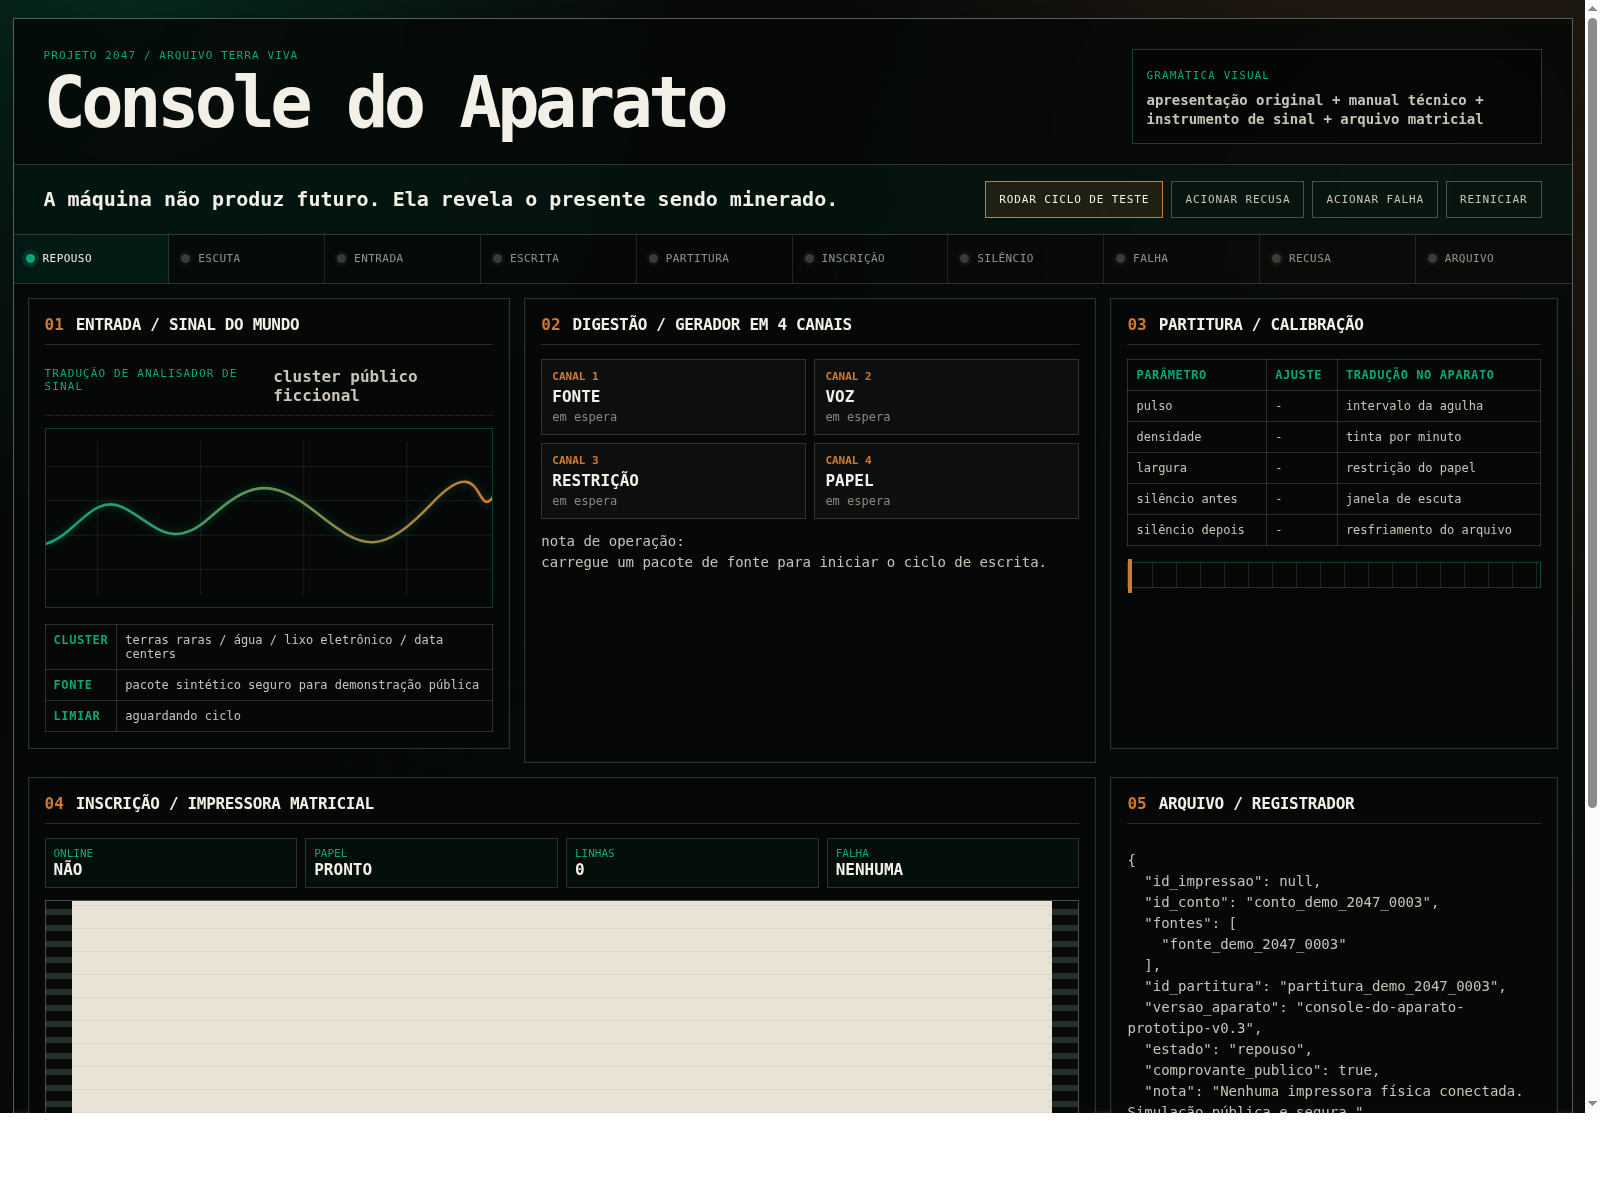
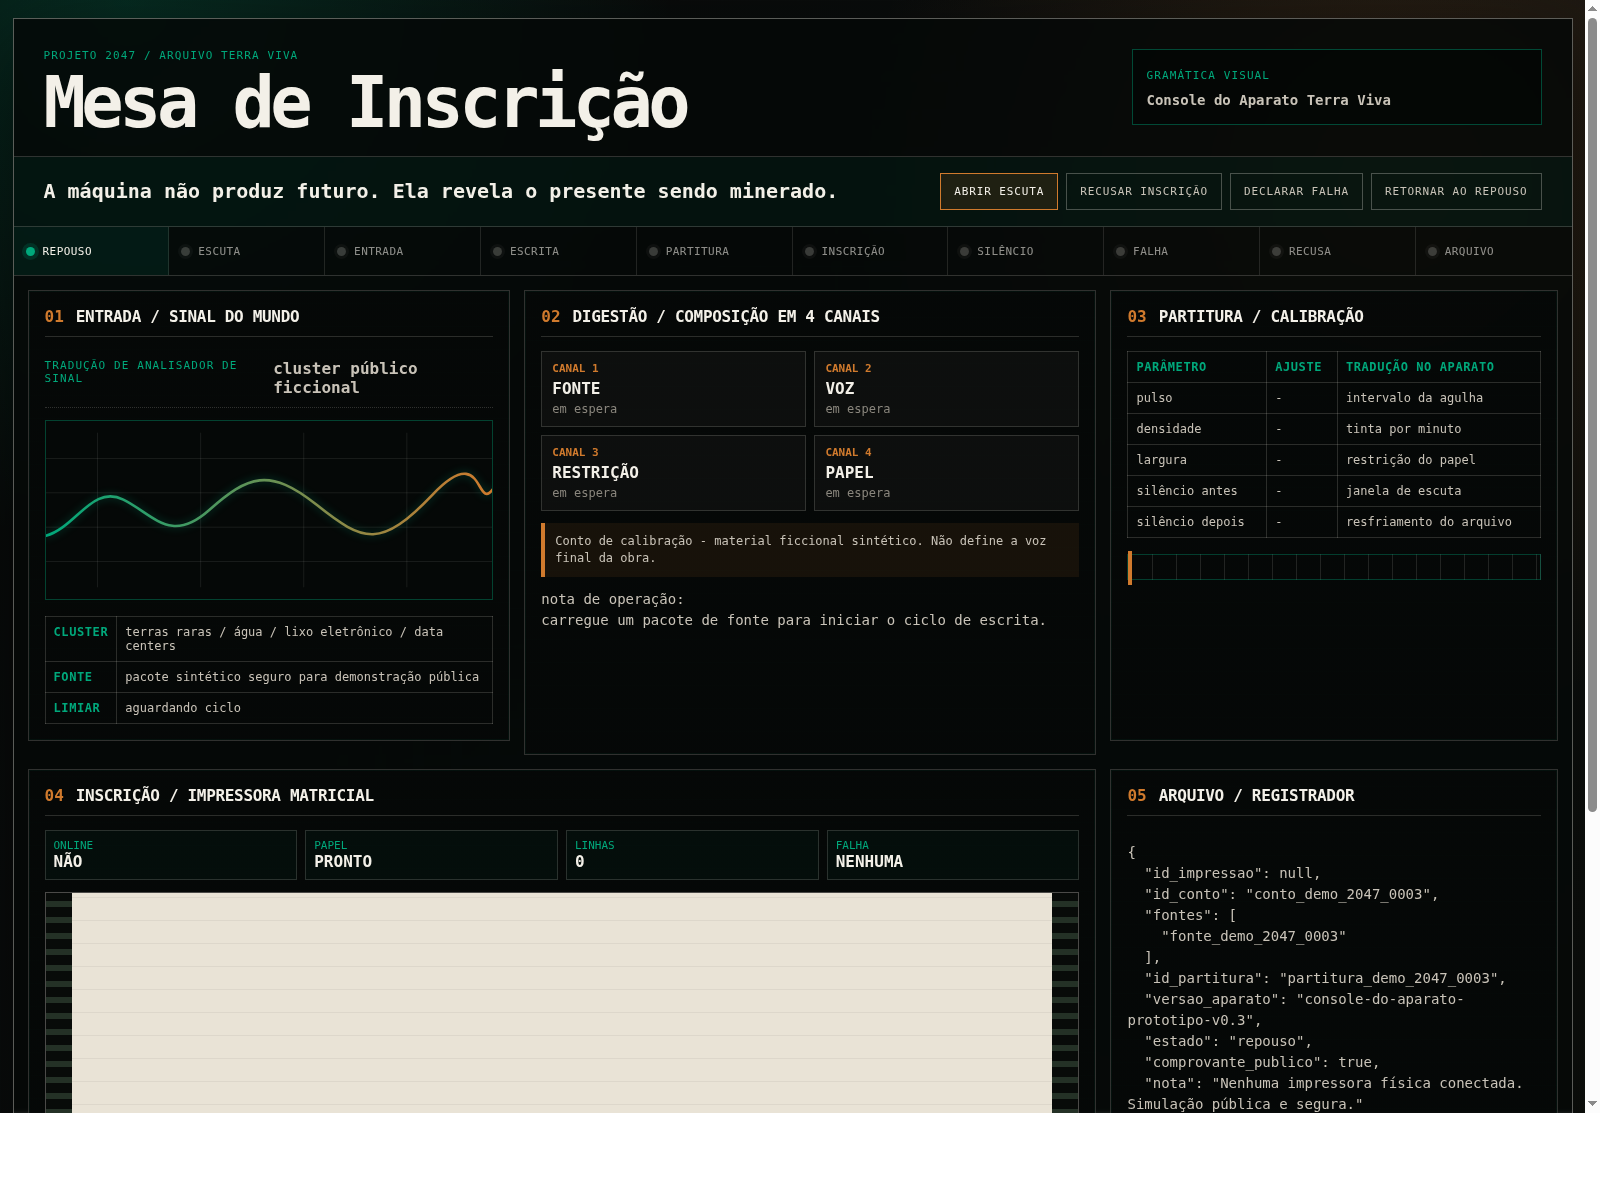
Apply inscription table language

diff --git a/06-prototypes/command-center/index.html b/06-prototypes/command-center/index.html
@@ -3,7 +3,7 @@
 <head>
   <meta charset="utf-8" />
   <meta name="viewport" content="width=device-width, initial-scale=1" />
-  <title>Projeto 2047 - Console do Aparato</title>
+  <title>Projeto 2047 - Mesa de Inscrição</title>
   <link rel="stylesheet" href="styles.css" />
 </head>
 <body>
@@ -11,21 +11,21 @@
     <header class="topbar">
       <div>
         <p class="eyebrow">Projeto 2047 / Arquivo Terra Viva</p>
-        <h1>Console do Aparato</h1>
+        <h1>Mesa de Inscrição</h1>
       </div>
       <div class="referencePlate">
         <span>gramática visual</span>
-        <strong>apresentação original + manual técnico + instrumento de sinal + arquivo matricial</strong>
+        <strong>Console do Aparato Terra Viva</strong>
       </div>
     </header>
 
     <section class="thesis">
       <p>A máquina não produz futuro. Ela revela o presente sendo minerado.</p>
       <div class="controls">
-        <button id="runBtn">Rodar ciclo de teste</button>
-        <button id="refusalBtn" class="ghost">Acionar recusa</button>
-        <button id="faultBtn" class="ghost">Acionar falha</button>
-        <button id="resetBtn" class="ghost">Reiniciar</button>
+        <button id="runBtn">Abrir escuta</button>
+        <button id="refusalBtn" class="ghost">Recusar inscrição</button>
+        <button id="faultBtn" class="ghost">Declarar falha</button>
+        <button id="resetBtn" class="ghost">Retornar ao repouso</button>
       </div>
     </section>
 
@@ -74,7 +74,7 @@
       <article class="panel storyPanel">
         <div class="panelHead">
           <span>02</span>
-          <h2>Digestão / gerador em 4 canais</h2>
+          <h2>Digestão / composição em 4 canais</h2>
         </div>
         <div class="channels">
           <div class="channel" data-channel="source"><span>CANAL 1</span><strong>FONTE</strong><em id="chSource">em espera</em></div>
@@ -82,6 +82,7 @@
           <div class="channel" data-channel="constraint"><span>CANAL 3</span><strong>RESTRIÇÃO</strong><em id="chConstraint">em espera</em></div>
           <div class="channel" data-channel="paper"><span>CANAL 4</span><strong>PAPEL</strong><em id="chPaper">em espera</em></div>
         </div>
+        <div class="calibrationNotice">Conto de calibração - material ficcional sintético. Não define a voz final da obra.</div>
         <pre id="storyOut" class="storyOut">nota de operação:
 carregue um pacote de fonte para iniciar o ciclo de escrita.</pre>
       </article>

diff --git a/06-prototypes/command-center/styles.css b/06-prototypes/command-center/styles.css
@@ -359,6 +359,16 @@ h2 {
   border-color: rgba(0, 168, 123, 0.4);
 }
 
+.calibrationNotice {
+  margin-bottom: 12px;
+  padding: 10px;
+  border-left: 4px solid var(--orange);
+  background: rgba(208, 122, 45, 0.09);
+  color: var(--text-soft);
+  font-size: 12px;
+  line-height: 1.4;
+}
+
 .storyOut,
 .ledgerOut,
 .receiptOut {

diff --git a/06-prototypes/command-center/app.js b/06-prototypes/command-center/app.js
@@ -143,7 +143,8 @@ function renderReceipt(status) {
     `CONTO: ${packet.conto.id_conto}`,
     `PARTITURA: ${packet.partitura.id_partitura}`,
     `DATA FICCIONAL: ${packet.conto.data_ficcional}`,
-    'MODO: SIMULAÇÃO DE IMPRESSÃO',
+    'MODO: SIMULAÇÃO DE INSCRIÇÃO',
+    'TIPO: CONTO DE CALIBRAÇÃO',
     'LIBERAÇÃO: ENTRADA SINTÉTICA PÚBLICA',
     'NOTA: NENHUMA IMPRESSORA FÍSICA CONECTADA'
   ].join('\n');
@@ -199,11 +200,11 @@ async function runCycle() {
   setState('WRITING');
   setChannel('voice', 'ficção situada, demonstração pública');
   setChannel('constraint', 'conto curto, sem fonte privada');
-  els.storyOut.textContent = `${packet.conto.titulo}\n${packet.conto.data_ficcional}\n\nescrevendo...`;
+  els.storyOut.textContent = `CONTO DE CALIBRAÇÃO\nmaterial ficcional sintético\n\n${packet.conto.titulo}\n${packet.conto.data_ficcional}\n\nescrevendo...`;
   logEvent('ESCRITA', 'canais do conto sincronizados');
   await sleep(900);
 
-  els.storyOut.textContent = `${packet.conto.titulo}\n${packet.conto.data_ficcional}\n\n${packet.conto.corpo.join('\n')}`;
+  els.storyOut.textContent = `CONTO DE CALIBRAÇÃO\nmaterial ficcional sintético\n\n${packet.conto.titulo}\n${packet.conto.data_ficcional}\n\n${packet.conto.corpo.join('\n')}`;
   await sleep(700);
 
   setState('SCORING');

diff --git a/03-field-notes/2026-05-command-center-smoke.md b/03-field-notes/2026-05-command-center-smoke.md
@@ -55,9 +55,11 @@ existing co-authorial presentation language
 + dot-matrix archive
 ```
 
-The term `dashboard` is intentionally avoided. The preferred frame is `apparatus console` or `operator console`.
+The term `dashboard` is intentionally avoided. The preferred frame is now **Mesa de Inscrição**, with **Console do Aparato Terra Viva** as technical subtitle.
 
 After the first public version, the console interface was translated to Brazilian Portuguese and recolored to follow the chromatic direction of the existing co-authorial presentation: dark field, white typography, green/teal signal accents, orange section markers, and restrained technical panels.
+
+The repository is documented in English for technical circulation. The apparatus interface operates in Brazilian Portuguese because pt-BR is the language of the artwork, its context, and its public address.
 
 ## Reference set translated into interface components
 
@@ -67,7 +69,7 @@ The second command center iteration translated the selected Manuals Plus referen
 | --- | --- |
 | Marconi TK 1803 Control Panel | Apparatus state strip |
 | HP 3562A Dynamic Signal Analyzer | Source signal trace |
-| Tektronix PI-210 Word Generator | 4-channel story generator |
+| Tektronix PI-210 Word Generator | 4-channel story composition |
 | Tektronix PI-100A Clock Generator | Score calibration table |
 | Teletype AN/FGC-36 Page Teletypewriter Set | Printer feed and fault panel |
 | Tau-Tron MR-1 Data Logging Printer | Public receipt sheet |
@@ -84,8 +86,8 @@ The prototype now includes:
 2. **Source signal trace**  
    A simulated signal panel for the fictional public signal cluster.
 
-3. **4-channel story generator**  
-   Channels: `SOURCE`, `VOICE`, `CONSTRAINT`, `PAPER`.
+3. **4-channel story composition**  
+   Channels: `FONTE`, `VOZ`, `RESTRIÇÃO`, `PAPEL`.
 
 4. **Score calibration table**  
    Fields: pulse, density, line width, silence before, silence after.
@@ -127,7 +129,9 @@ SILENCE
 ARCHIVED
 ```
 
-The cycle uses a fictional source packet about rare earths, data centers, water, and e-waste. It then displays a short fictional story, calibrates a sonic score, simulates paper output, logs events, and produces a receipt.
+The cycle uses a fictional source packet about rare earths, data centers, water, and e-waste. It then displays a **conto de calibração**, calibrates a sonic score, simulates paper output, logs events, and produces a receipt.
+
+The calibration story is synthetic test material. It does not document a real event and does not define the final literary voice of Projeto 2047 / Arquivo Terra Viva.
 
 ## Refusal behavior
 

diff --git a/06-prototypes/command-center/README.md b/06-prototypes/command-center/README.md
@@ -2,7 +2,9 @@
 
 This is a static public prototype for testing the 2047 generative loop as an operator interface.
 
-The repository documentation is in English, but the console itself is in Brazilian Portuguese because the work's operating language is pt-BR.
+The public title is **Mesa de Inscrição**. The technical subtitle is **Console do Aparato Terra Viva**.
+
+The repository documentation is in English for technical circulation. The apparatus interface operates in Brazilian Portuguese because pt-BR is the language of the artwork, its context, and its public address.
 
 It is not the artwork interface, not an institutional dashboard, and not a production system. It is a visual test surface for the apparatus logic:
 
@@ -52,7 +54,7 @@ The current prototype translates the selected Manuals Plus reference set into:
 
 - apparatus state strip;
 - source signal trace;
-- 4-channel story generator;
+- 4-channel story composition;
 - score calibration table;
 - printer feed and fault panel;
 - ledger recorder;
@@ -62,7 +64,7 @@ The current prototype translates the selected Manuals Plus reference set into:
 ## Future directions
 
 - Connect to a local JSON ledger.
-- Add multiple story modes.
+- Add multiple calibration story modes.
 - Add more score presets.
 - Add real terminal print simulation receipts.
 - Add printer status only after sanitization.